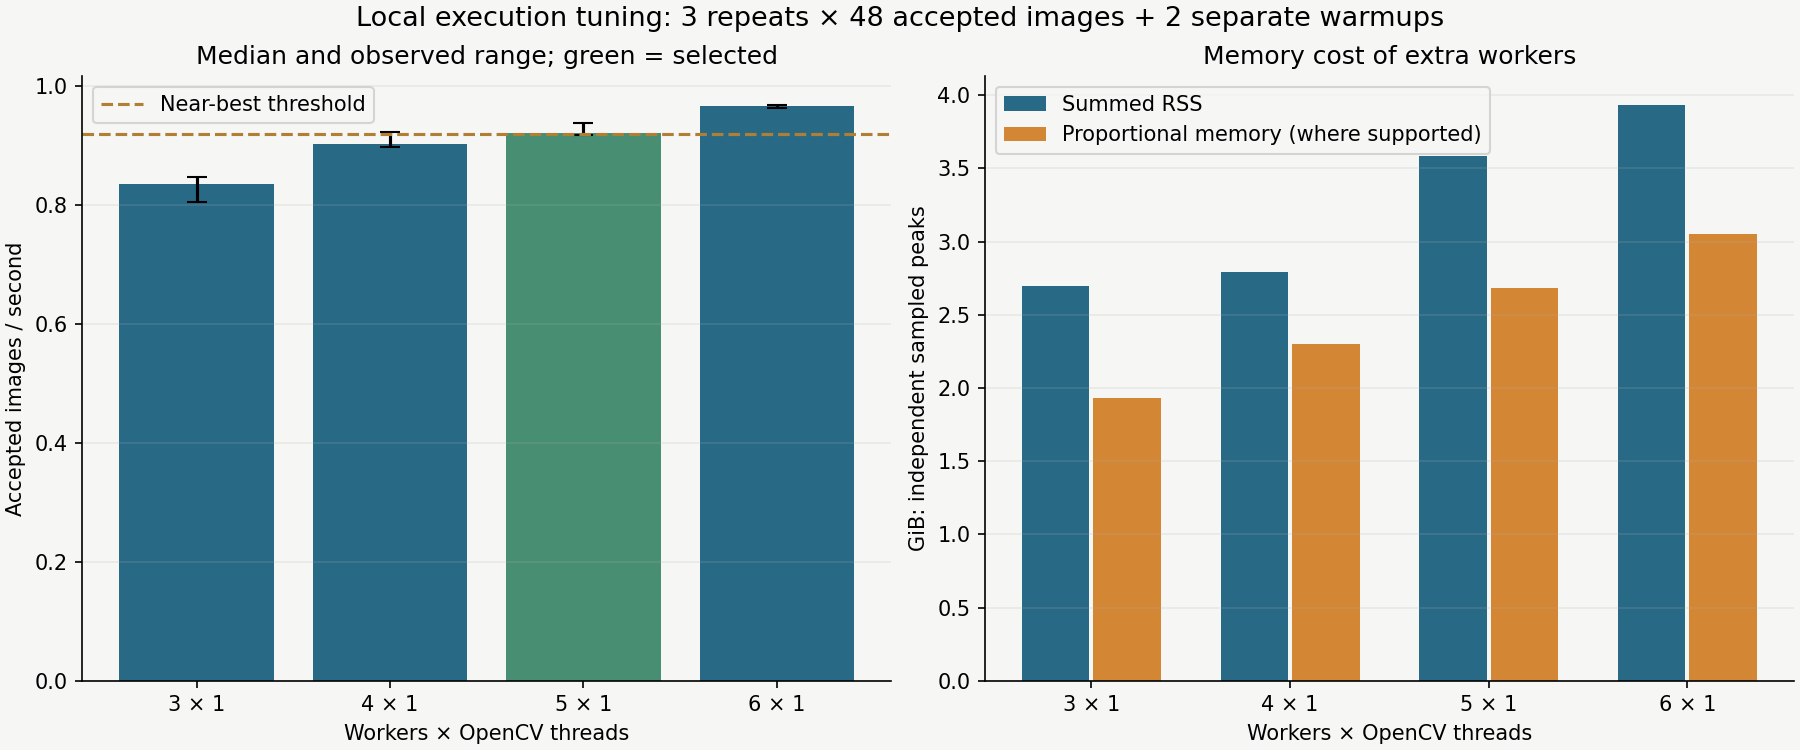
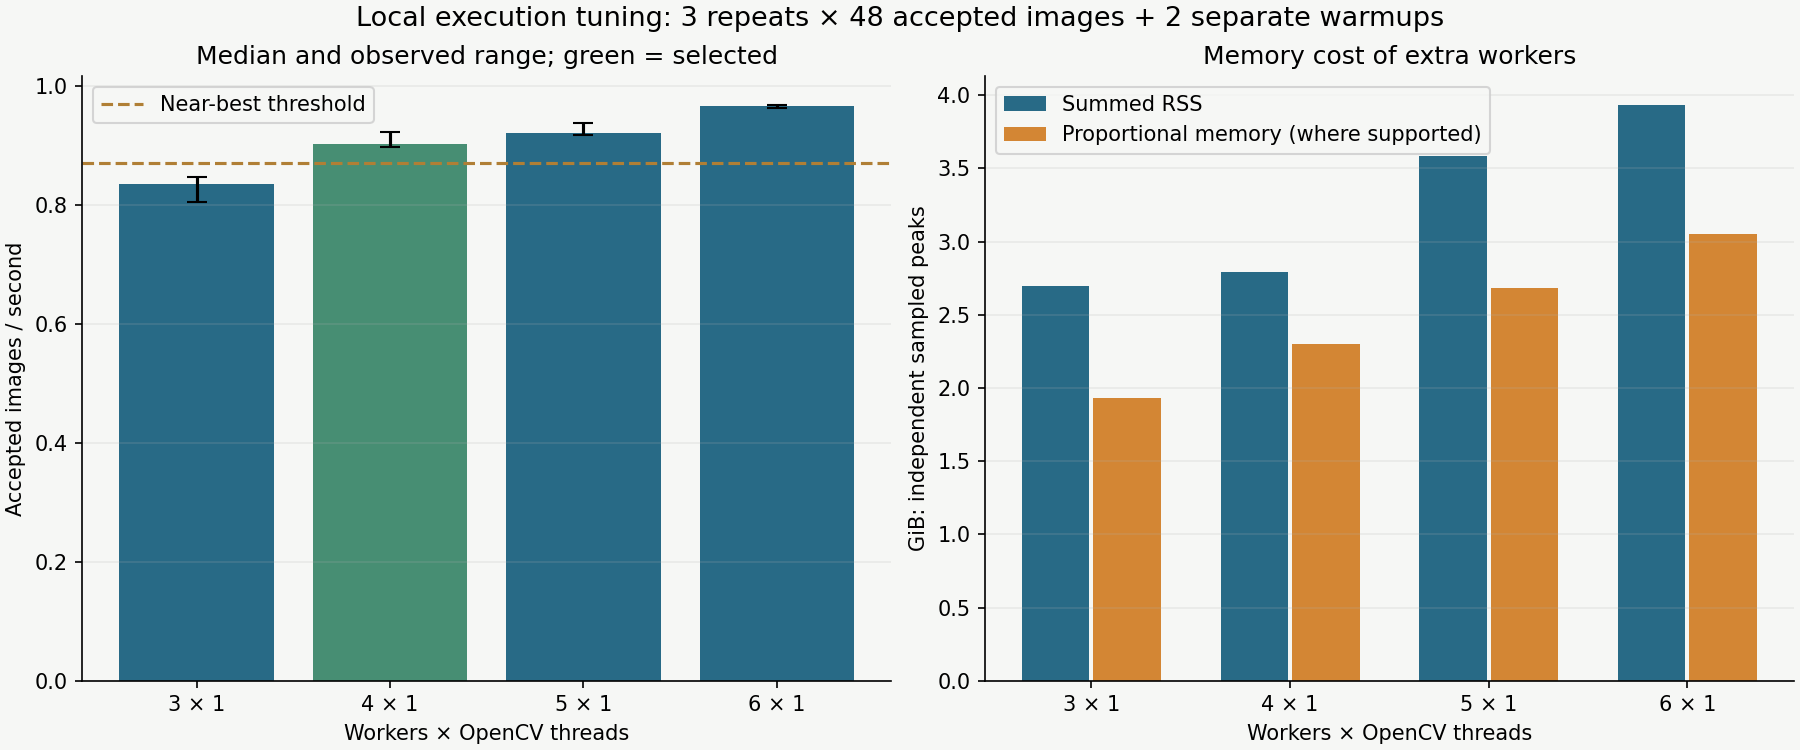
docs: select four workers for the local memory-conscious setup

diff --git a/docs/experiments/execution-tuning-v1/README.md b/docs/experiments/execution-tuning-v1/README.md
@@ -3,7 +3,8 @@
 This host no longer needs worker-count escalation tests for the current workload. After the earlier
 12-worker capacity stops, the useful remaining question was the affordable 3–6 worker range. Six is
 fastest here; five is the default near-best recommendation under the explicit 5% tolerance rule.
-Four is a useful lower-memory alternative. These are local choices, not generic hardware-class defaults.
+For this RAM-constrained interactive host, we explicitly use a 10% tolerance and select four as the
+everyday local setup. These are local choices, not generic hardware-class defaults.
 
 [Compact measurements and recommendation](summary.json) · [Portable workflow](../../EXECUTION_TUNING.md)
 
@@ -39,9 +40,11 @@ recommendations; their shorter prefix gives different rates from the 48-image co
 ## What this means
 
 Five workers trails six by 4.73% in accepted throughput, using about 9% less maximum sampled summed
-RSS. The resource preference selects five because its median is within 5% of the fastest eligible
-median. Four trails six by 6.70%, using about 29% less RSS; it is the smaller choice if the tolerance
-is relaxed to 10%. The tradeoff is transparent rather than an asserted unique optimum. Three is
+RSS. The default resource preference selects five because its median is within 5% of the fastest
+eligible median. Four trails six by 6.70%, using about 29% less RSS; it is the smaller choice if the tolerance
+is relaxed to 10%. Four is only 2.06% slower than five while using about 22% less peak summed RSS,
+so the local setup deliberately uses that 10% preference. The chart and retained recommendation
+show this four-worker local choice. The tradeoff is transparent rather than an asserted unique optimum. Three is
 about 13.7% behind six. Ranges overlap for some neighbouring settings, and three repetitions do not
 establish statistical significance or a universal performance plateau.
 
@@ -63,7 +66,8 @@ The portable method now separates:
    write ordinary typed overrides for explicit preflight/generation use.
 
 The headroom rule is the largest observed available-memory drop ×1.10 plus the recorded reserve.
-At recommendation time it required about 5.16 GiB available for five workers and 5.77 GiB for six.
+At recommendation time it required about 4.55 GiB available for four workers, 5.16 GiB for five
+and 5.77 GiB for six.
 These are workload-local empirical safeguards, not guaranteed future peaks or hard runtime limits.
 RSS repeats shared pages; PSS and host availability are separate metrics with independent samples.
 
@@ -71,11 +75,13 @@ RSS repeats shared pages; PSS and host availability are separate metrics with in
 
 Ignored local files were created:
 
-- `configs/local/execution-tuning/landing-pad-balanced.yaml`: five workers, one OpenCV thread,
-  five in-flight slots and zero decoded cache. This is the primary local composer for the measured workload.
+- `configs/local/execution-tuning/landing-pad-balanced.yaml`: four workers, one OpenCV thread,
+  four in-flight slots and zero decoded cache. This is the primary local composer for the measured workload.
+- `configs/local/execution-tuning/landing-pad-strict-five-percent.yaml`: five workers for the
+  generic five-percent tolerance.
 - `configs/local/execution-tuning/landing-pad-fastest.yaml`: six workers, one thread, six slots,
   zero decoded cache; requires more headroom.
-- `configs/local/execution-tuning/execution-balanced-overrides.yaml`: the same measured five-worker
+- `configs/local/execution-tuning/execution-balanced-overrides.yaml`: the same measured four-worker
   settings as reusable typed overrides for the matching composer.
 
 These do not change the shipped one-worker profile or silently apply to other families/resolutions.
@@ -102,13 +108,13 @@ PYTHONPATH=src uv run python scripts/study_execution_controls.py \
 uv run python -m dataset_generator_m1 execution recommend \
   --config configs/local/high-workers/baseline.yaml \
   --study outputs/experiments/execution-tuning/confirmation/summary.json \
-  --output-dir outputs/experiments/execution-tuning/selected
+  --tolerance-percent 10 --output-dir outputs/experiments/execution-tuning/local-balanced
 
 # Optional authoring dependency, after timing; output must be fresh.
 uv run --with 'matplotlib>=3.10,<3.11' python scripts/report_execution_tuning.py \
   --study outputs/experiments/execution-tuning/confirmation/summary.json \
   --screen outputs/experiments/execution-tuning/screen/summary.json \
-  --recommendation outputs/experiments/execution-tuning/selected/result.json \
+  --recommendation outputs/experiments/execution-tuning/local-balanced/result.json \
   --output-dir outputs/experiments/execution-tuning/report
 ```
 
